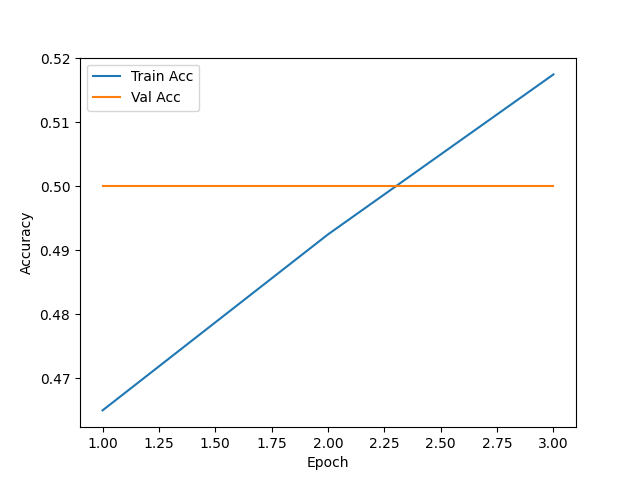
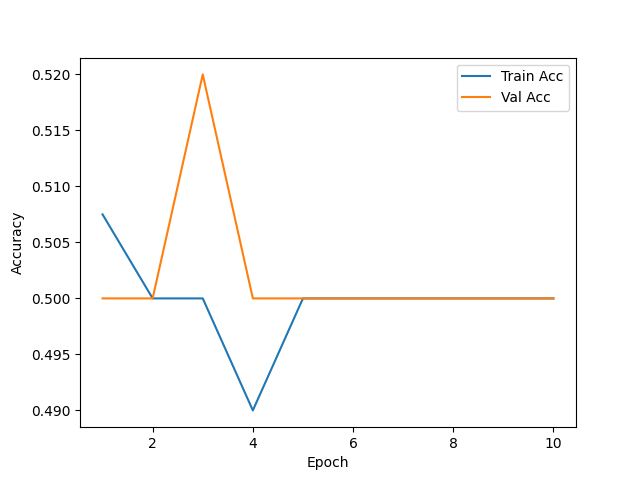
TEST

diff --git a/src/data/preprocess.py b/src/data/preprocess.py
@@ -1,23 +1,20 @@
 import os
-import random
 import shutil
-import subprocess
+import random
 from torch.utils.data import DataLoader
 from torchvision import datasets, transforms
+import subprocess
 
 # ===============================
-# Configurable Paths & Parameters
+# Config
 # ===============================
 RAW_DIR = "data/raw/PetImages"
 PROCESSED_DIR = "data/processed"
-SMALL_DATASET = True           # True to use small subset
-SMALL_SAMPLE_SIZE = 500        # Total images if using small dataset
 CLASSES = ["Cat", "Dog"]
 
 # ===============================
-# Helper Functions
+# Preprocessing Functions
 # ===============================
-
 def track_raw_with_dvc(raw_dir=RAW_DIR):
     """Track raw data with DVC if not already tracked."""
     try:
@@ -32,50 +29,29 @@ def track_raw_with_dvc(raw_dir=RAW_DIR):
     except FileNotFoundError:
         print("[WARNING] DVC or Git not found. Skipping raw data tracking.")
     except subprocess.CalledProcessError:
-        print("[WARNING] Raw data tracking already exists or git commit failed. Skipping.")
+        print("[WARNING] DVC stage already exists or git commit failed. Skipping.")
 
-def create_small_dataset(raw_dir=RAW_DIR, sample_size=SMALL_SAMPLE_SIZE):
-    """Create a small dataset subset (~sample_size images total)."""
-    small_raw_dir = raw_dir + "_small"
-    if os.path.exists(small_raw_dir):
-        shutil.rmtree(small_raw_dir)  # remove if exists
-    os.makedirs(small_raw_dir, exist_ok=True)
-
-    for cls in CLASSES:
-        cls_dir = os.path.join(small_raw_dir, cls)
-        os.makedirs(cls_dir, exist_ok=True)
-        images = [f for f in os.listdir(os.path.join(raw_dir, cls)) if f.lower().endswith((".jpg", ".png"))]
-        selected = random.sample(images, min(len(images), sample_size // len(CLASSES)))
-        for img in selected:
-            shutil.copy2(os.path.join(raw_dir, cls, img), os.path.join(cls_dir, img))
-
-    print(f"[INFO] Small dataset created at {small_raw_dir} ({sample_size} images total).")
-    return small_raw_dir
-
-def preprocess_data(raw_dir=RAW_DIR, processed_dir=PROCESSED_DIR, train_ratio=0.8, val_ratio=0.1, small_dataset=SMALL_DATASET):
-    """Preprocess dataset: optionally reduce size and split into train/val/test."""
-    
-    # Clear processed folder if exists
+def preprocess_data(raw_dir=RAW_DIR, processed_dir=PROCESSED_DIR, train_ratio=0.8, val_ratio=0.1):
+    """
+    Split dataset into train/val/test folders with exact ratios: 80:10:10.
+    Won't delete processed folder if it exists.
+    """
     if os.path.exists(processed_dir):
-        shutil.rmtree(processed_dir)
-    
-    if small_dataset:
-        raw_dir = create_small_dataset(raw_dir)
+        print(f"[INFO] Processed folder {processed_dir} already exists. Skipping preprocessing.")
+        return
 
-    # Create processed folders
     os.makedirs(processed_dir, exist_ok=True)
     for split in ["train", "val", "test"]:
         for cls in CLASSES:
             os.makedirs(os.path.join(processed_dir, split, cls), exist_ok=True)
 
-    # Split images
     for cls in CLASSES:
         cls_path = os.path.join(raw_dir, cls)
         images = [f for f in os.listdir(cls_path) if f.lower().endswith((".jpg", ".png"))]
         random.shuffle(images)
         n = len(images)
         train_end = int(n * train_ratio)
-        val_end = train_end + int(n * val_ratio)
+        val_end = train_end + int(n * val_ratio)  # remaining goes to test automatically
 
         for i, img in enumerate(images):
             src = os.path.join(cls_path, img)
@@ -87,14 +63,14 @@ def preprocess_data(raw_dir=RAW_DIR, processed_dir=PROCESSED_DIR, train_ratio=0.
                 dst = os.path.join(processed_dir, "test", cls, img)
             shutil.copy2(src, dst)
 
-    print(f"[INFO] Data preprocessing complete! Train/Val/Test folders created at: {processed_dir}")
+    print(f"[INFO] Preprocessing done! Train/Val/Test split created at: {processed_dir}")
+    print(f"Split ratios: Train {train_ratio*100}%, Val {val_ratio*100}%, Test {100 - int(train_ratio*100 + val_ratio*100)}%")
 
 # ===============================
-# DataLoaders
+# DataLoader Function
 # ===============================
 def get_loaders(processed_dir=PROCESSED_DIR, batch_size=32, augment=True):
-    """Return PyTorch DataLoaders with optional augmentation."""
-    
+    """Return PyTorch DataLoaders for train/val/test."""
     if augment:
         train_tfms = transforms.Compose([
             transforms.Resize((224, 224)),
@@ -116,18 +92,29 @@ def get_loaders(processed_dir=PROCESSED_DIR, batch_size=32, augment=True):
     ])
 
     train_ds = datasets.ImageFolder(os.path.join(processed_dir, "train"), transform=train_tfms)
-    val_ds = datasets.ImageFolder(os.path.join(processed_dir, "val"), transform=test_tfms)
-    test_ds = datasets.ImageFolder(os.path.join(processed_dir, "test"), transform=test_tfms)
+    val_ds   = datasets.ImageFolder(os.path.join(processed_dir, "val"), transform=test_tfms)
+    test_ds  = datasets.ImageFolder(os.path.join(processed_dir, "test"), transform=test_tfms)
 
     train_loader = DataLoader(train_ds, batch_size=batch_size, shuffle=True)
-    val_loader = DataLoader(val_ds, batch_size=batch_size, shuffle=False)
-    test_loader = DataLoader(test_ds, batch_size=batch_size, shuffle=False)
+    val_loader   = DataLoader(val_ds, batch_size=batch_size, shuffle=False)
+    test_loader  = DataLoader(test_ds, batch_size=batch_size, shuffle=False)
 
     return train_loader, val_loader, test_loader
 
 # ===============================
-# Main
+# Combined Helper
+# ===============================
+def prepare_data(batch_size=32, augment=True):
+    """Track raw data, preprocess (if needed), and return DataLoaders."""
+    track_raw_with_dvc()
+    preprocess_data()  # will skip if folder exists
+    return get_loaders(batch_size=batch_size, augment=augment)
+
+# ===============================
+# Main (for testing)
 # ===============================
 if __name__ == "__main__":
-    track_raw_with_dvc()
-    preprocess_data(small_dataset=SMALL_DATASET)
+    train_loader, val_loader, test_loader = prepare_data(batch_size=32, augment=True)
+    print(f"[INFO] Train samples: {len(train_loader.dataset)}")
+    print(f"[INFO] Val samples: {len(val_loader.dataset)}")
+    print(f"[INFO] Test samples: {len(test_loader.dataset)}")

diff --git a/src/model/train.py b/src/model/train.py
@@ -1,58 +1,31 @@
 import os
-import subprocess
 import torch
 import torch.nn as nn
 from torch.optim import Adam
-import mlflow
 import matplotlib.pyplot as plt
 from sklearn.metrics import confusion_matrix, ConfusionMatrixDisplay
-import sys
+import mlflow
 
-# Add project root to sys.path
-sys.path.append(os.path.abspath(os.path.join(os.path.dirname(__file__), "..", "..")))
-
+from src.data.preprocess import prepare_data
 from src.model.model import SimpleCNN
-from src.data.preprocess import get_loaders, preprocess_data, RAW_DIR, PROCESSED_DIR, SMALL_DATASET
 
-# Use GPU if available
+# ===============================
+# Device
+# ===============================
 device = "cuda" if torch.cuda.is_available() else "cpu"
-
-# ===============================
-# DVC Preprocessing Helper
-# ===============================
-def run_dvc_preprocessing():
-    """Run DVC pipeline to ensure processed data is up-to-date."""
-    try:
-        raw_dvc_file = os.path.join(RAW_DIR, "PetImages.dvc")
-        if not os.path.exists(raw_dvc_file):
-            print("[INFO] Tracking raw data with DVC...")
-            subprocess.run(["dvc", "add", RAW_DIR], check=True)
-            subprocess.run(["git", "add", f"{RAW_DIR}.dvc"], check=True)
-            subprocess.run(["git", "commit", "-m", "Track raw data with DVC"], check=True)
-
-        print("[INFO] Running DVC pipeline to preprocess data...")
-        subprocess.run(["dvc", "repro"], check=True)
-
-    except FileNotFoundError:
-        print("[WARNING] DVC or Git not found. Make sure data is preprocessed manually.")
-    except subprocess.CalledProcessError:
-        print("[WARNING] DVC stage failed or already up-to-date. Skipping repro.")
+print(f"[INFO] Using device: {device}")
 
 # ===============================
 # Training Function
 # ===============================
 def train_model(
-    epochs=3,            # Reduce for small dataset / CPU
-    batch_size=16,       # Reduce batch size for faster CPU training
+    epochs=20,
+    batch_size=32,
     learning_rate=1e-3,
     augment=True
 ):
-    # Ensure data is preprocessed
-    run_dvc_preprocessing()
-    preprocess_data(small_dataset=SMALL_DATASET)  # auto handles small/full dataset
-
-    # Load DataLoaders
-    train_loader, val_loader, _ = get_loaders(batch_size=batch_size, augment=augment)
+    # Prepare DataLoaders (80:10:10 split)
+    train_loader, val_loader, test_loader = prepare_data(batch_size=batch_size, augment=augment)
 
     # Initialize model, loss, optimizer
     model = SimpleCNN().to(device)
@@ -76,9 +49,9 @@ def train_model(
         })
 
         for epoch in range(epochs):
+            # --- Training ---
             model.train()
             running_loss, correct, total = 0, 0, 0
-
             for images, labels in train_loader:
                 images, labels = images.to(device), labels.to(device).float().unsqueeze(1)
                 optimizer.zero_grad()
@@ -97,7 +70,7 @@ def train_model(
             train_losses.append(train_loss)
             train_accs.append(train_acc)
 
-            # Validation
+            # --- Validation ---
             model.eval()
             val_loss, correct_val, total_val = 0, 0, 0
             with torch.no_grad():
@@ -126,13 +99,13 @@ def train_model(
                   f"Train Loss: {train_loss:.4f}, Train Acc: {train_acc:.4f} | "
                   f"Val Loss: {val_loss:.4f}, Val Acc: {val_acc:.4f}")
 
-        # Save model
+        # --- Save model ---
         os.makedirs("models", exist_ok=True)
         model_path = "models/simple_cnn.pt"
         torch.save(model.state_dict(), model_path)
         mlflow.log_artifact(model_path)
 
-        # Plot Loss & Accuracy
+        # --- Plot Loss & Accuracy ---
         plt.figure()
         plt.plot(range(1, epochs+1), train_losses, label="Train Loss")
         plt.plot(range(1, epochs+1), val_losses, label="Val Loss")
@@ -151,7 +124,7 @@ def train_model(
         plt.savefig("accuracy_curve.png")
         mlflow.log_artifact("accuracy_curve.png")
 
-        # Confusion matrix
+        # --- Confusion Matrix ---
         all_labels, all_preds = [], []
         with torch.no_grad():
             for images, labels in val_loader:
@@ -176,8 +149,8 @@ def train_model(
 # ===============================
 if __name__ == "__main__":
     train_model(
-        epochs=10,           # smaller dataset → fewer epochs
-        batch_size=16,      # smaller batch for CPU
+        epochs=20,        # for full dataset
+        batch_size=32,    # adjust if running on CPU
         learning_rate=1e-3,
         augment=True
     )

diff --git a/src/model/model.py b/src/model/model.py
@@ -1,27 +1,32 @@
-import torch
 import torch.nn as nn
 
 class SimpleCNN(nn.Module):
+    """
+    Simple CNN for binary classification (Cat vs Dog).
+    Input images: 3x224x224
+    """
+
     def __init__(self):
         super(SimpleCNN, self).__init__()
         self.model = nn.Sequential(
-            nn.Conv2d(3, 32, 3, padding=1),  # (3,224,224) -> (32,224,224)
+            # Conv layers
+            nn.Conv2d(3, 32, 3, padding=1),
             nn.ReLU(),
-            nn.MaxPool2d(2),                 # -> (32,112,112)
-            
-            nn.Conv2d(32, 64, 3, padding=1), # -> (64,112,112)
+            nn.MaxPool2d(2),  # 224 -> 112
+
+            nn.Conv2d(32, 64, 3, padding=1),
             nn.ReLU(),
-            nn.MaxPool2d(2),                 # -> (64,56,56)
-            
+            nn.MaxPool2d(2),  # 112 -> 56
+
             nn.Conv2d(64, 128, 3, padding=1),
             nn.ReLU(),
-            nn.MaxPool2d(2),                 # -> (128,28,28)
-            
+            nn.MaxPool2d(2),  # 56 -> 28
+
             nn.Flatten(),
-            nn.Linear(128*28*28, 128),
+            nn.Linear(128 * 28 * 28, 128),
             nn.ReLU(),
             nn.Linear(128, 1),
-            nn.Sigmoid()
+            nn.Sigmoid()  # for binary classification
         )
 
     def forward(self, x):
